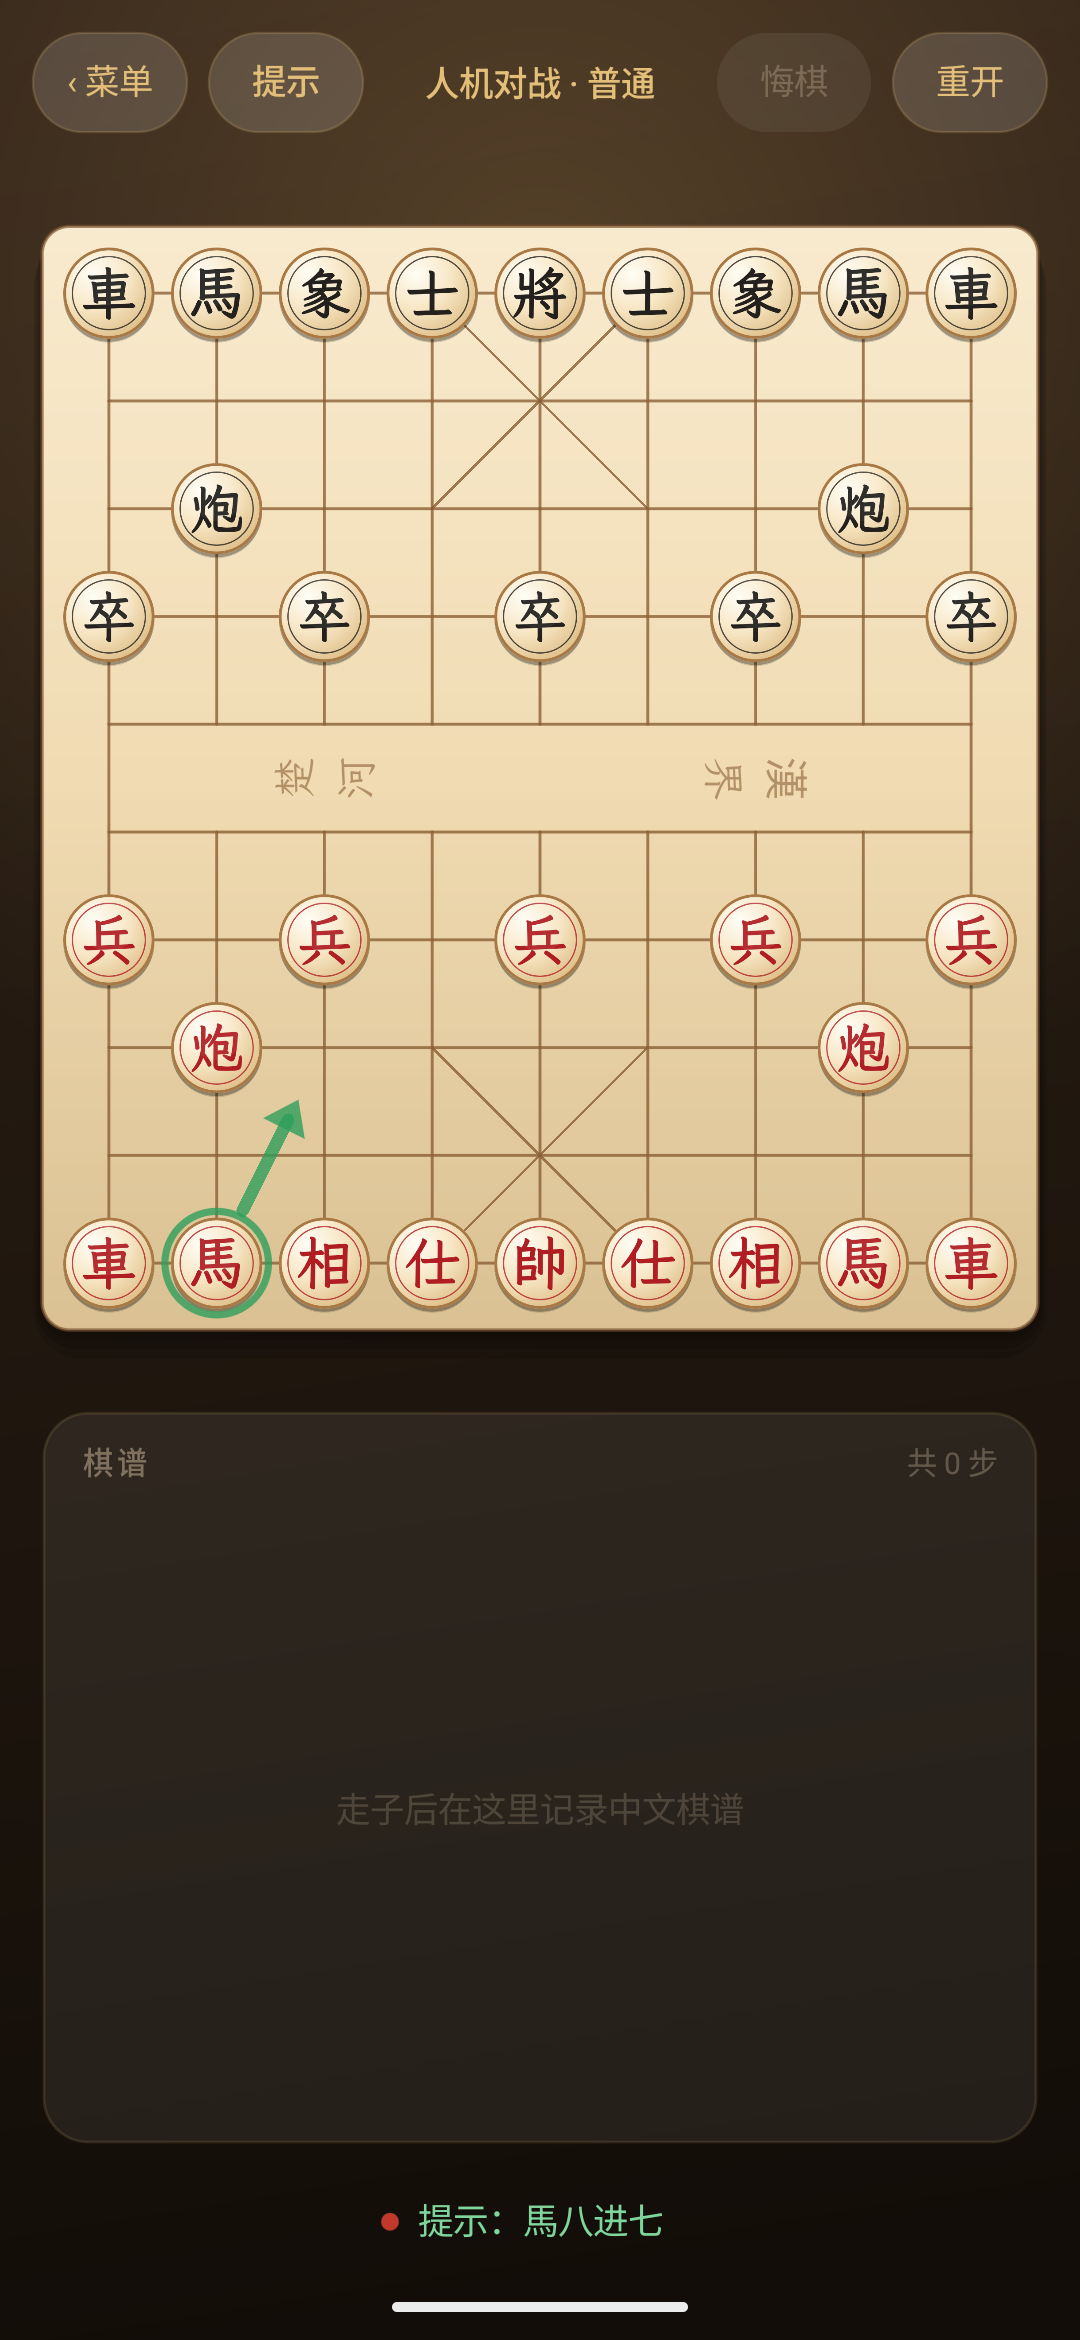
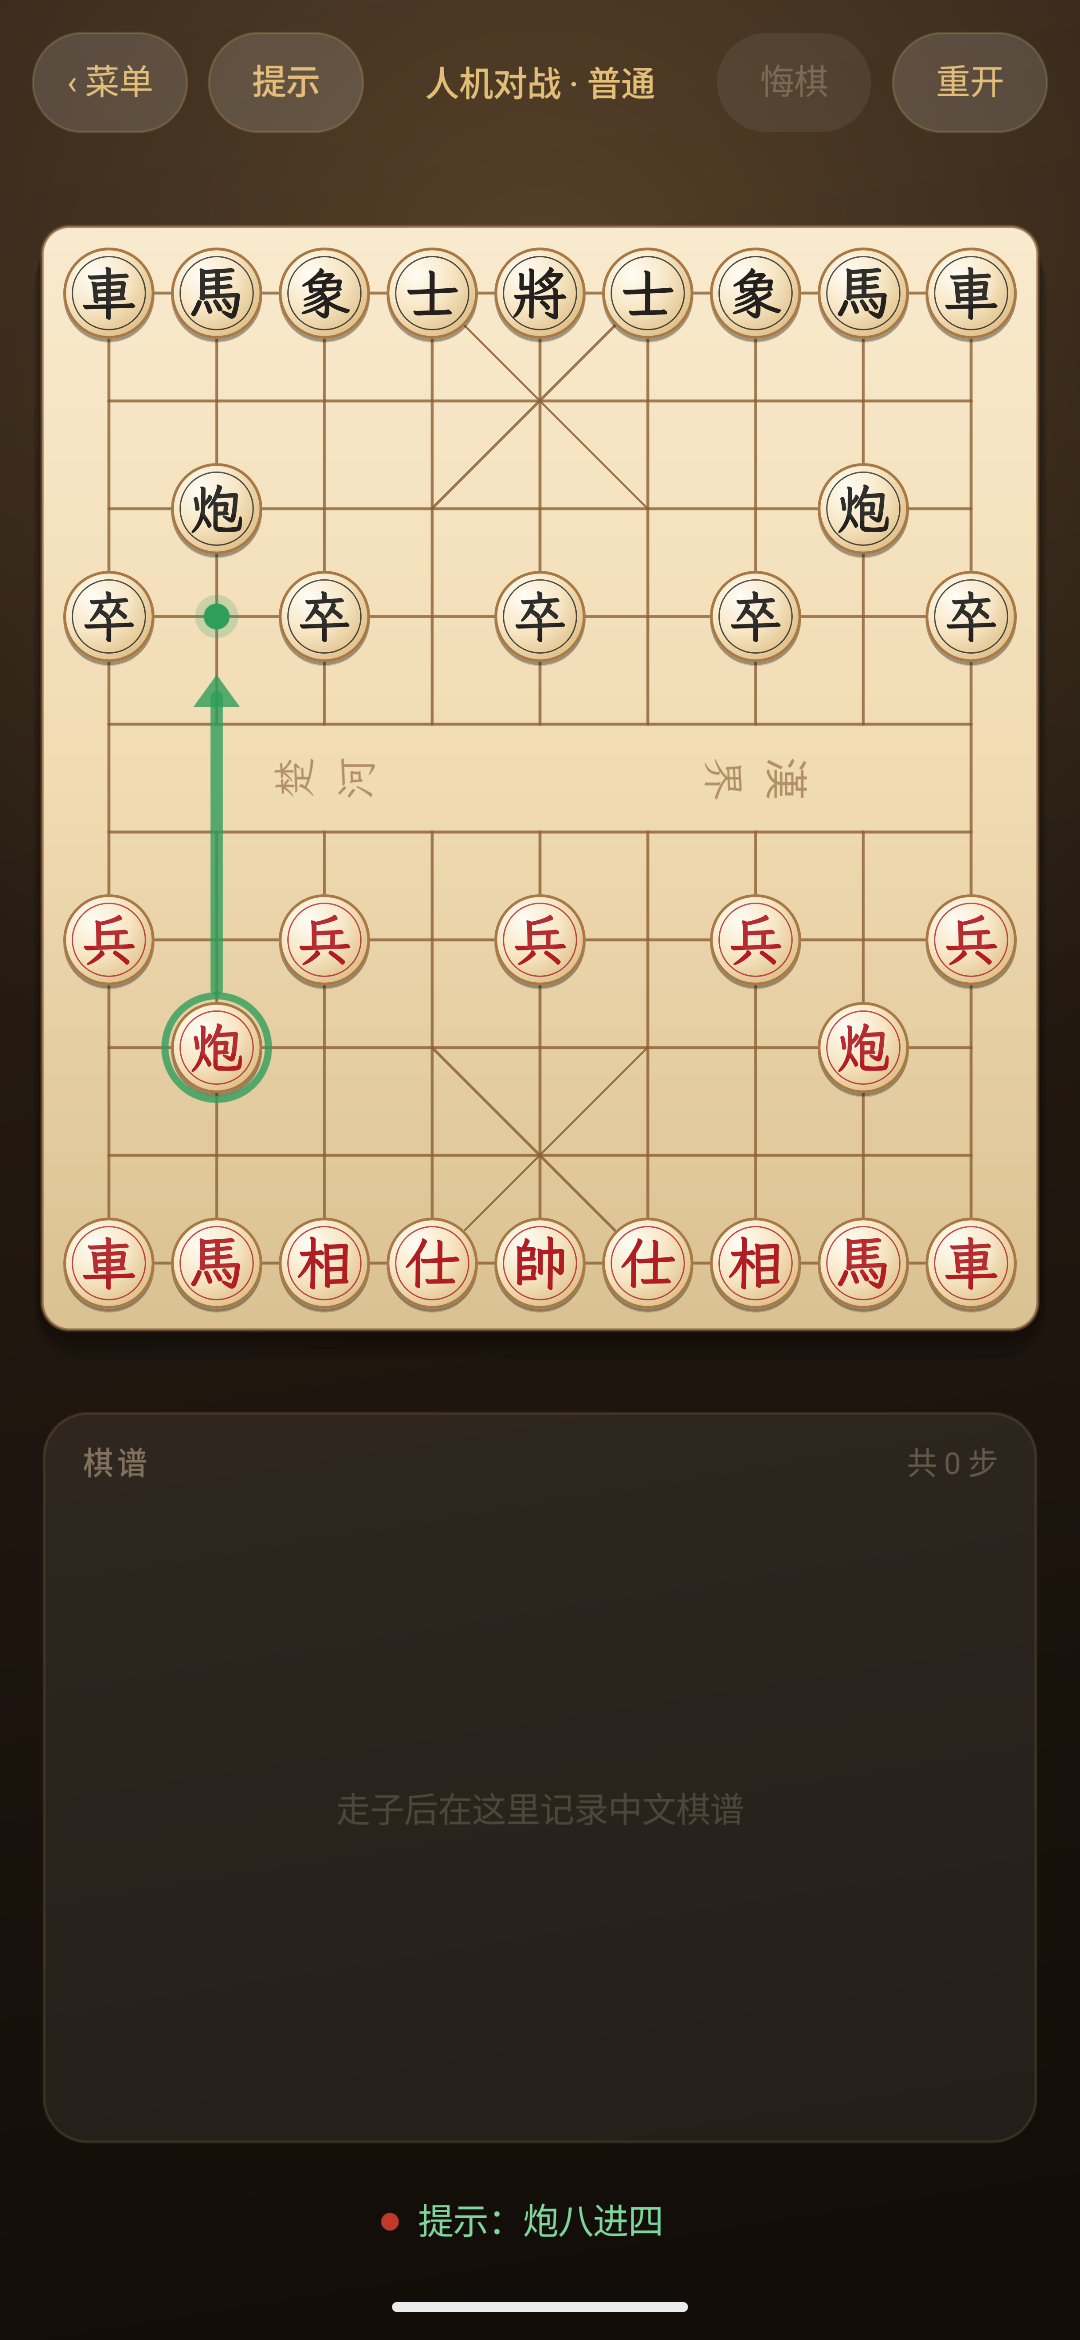
display: 提示改用困难档，补落点绿点和上一步残影
- 提示引擎从固定普通档改成至少困难档（菜单选大师时用大师），普通及以下都按困难算
- 提示落点加绿点；目标格有子时改用绿圈，避免盖住棋子上的字
- 任何一方落子后在起点留一个 25% 透明度的棋子残影，下一步落子时替换，悔棋跟着退
- Game 记录 lastMovedPiece（随 Record 一起存，悔棋可还原）
- 更新 hint 截图，新增 ghost 截图

diff --git a/app/src/main/java/com/klara/xiangqi/ui/GameView.kt b/app/src/main/java/com/klara/xiangqi/ui/GameView.kt
@@ -560,9 +560,11 @@ class GameView(context: Context) : View(context) {
         val gen = generation
         val ply = game.plyCount
         val snapshot = game.board.copy()
+        // 提示至少用「困难」档：低档位带随手棋，会把提示带偏；菜单选大师时就让提示也跑大师。
+        val level = if (difficulty.ordinal >= Difficulty.HARD.ordinal) difficulty else Difficulty.HARD
         invalidate()
         Thread {
-            val move = hintAi.chooseMove(snapshot, Difficulty.NORMAL)
+            val move = hintAi.chooseMove(snapshot, level)
             val name = if (move != 0) MoveNamer.name(snapshot, move) else ""
             post {
                 if (gen != generation) return@post
@@ -1088,6 +1090,14 @@ class GameView(context: Context) : View(context) {
             drawPieceAt(canvas, p, x, y, size)
         }
 
+        // 上一步的残影：在起点留一个淡棋子，下一步落子时自然被替换
+        if (game.lastMove >= 0 && game.lastMovedPiece != 0) {
+            val from = MoveGen.fromOf(game.lastMove)
+            paint.alpha = 64
+            drawPieceAt(canvas, game.lastMovedPiece, cx(colOf(from)), cy(rowOf(from)), size)
+            paint.alpha = 255
+        }
+
         // 走子动画
         if (animating) {
             val t = ((SystemClock.uptimeMillis() - animStartAt) / 190f).coerceIn(0f, 1f)
@@ -1141,6 +1151,19 @@ class GameView(context: Context) : View(context) {
         linePaint.color = C_HINT
         linePaint.strokeWidth = dp(2.6f)
         canvas.drawCircle(fx, fy, cell * 0.48f, linePaint)
+
+        // 落点：空位画实心绿点，可吃子画绿圈——绿点压在棋子上会挡住字
+        if (game.board.cells[to] != 0) {
+            linePaint.color = C_HINT
+            linePaint.strokeWidth = dp(3f)
+            canvas.drawCircle(tx, ty, cell * 0.44f, linePaint)
+        } else {
+            paint.color = C_HINT
+            paint.alpha = 55
+            canvas.drawCircle(tx, ty, cell * 0.20f, paint)
+            paint.alpha = 255
+            canvas.drawCircle(tx, ty, cell * 0.12f, paint)
+        }
 
         val dx = tx - fx
         val dy = ty - fy

diff --git a/app/src/main/java/com/klara/xiangqi/game/Game.kt b/app/src/main/java/com/klara/xiangqi/game/Game.kt
@@ -7,13 +7,17 @@ class Game {
 
     val board = Board()
 
-    private class Record(val move: Int, val captured: Int)
+    private class Record(val move: Int, val piece: Int, val captured: Int)
 
     private val history = ArrayList<Record>(128)
     private val hashes = ArrayList<Long>(128)
     private val notations = ArrayList<String>(128)
 
     var lastMove: Int = -1
+        private set
+
+    /** 上一步被移动的棋子（画「残影」用；0 表示没有） */
+    var lastMovedPiece: Int = 0
         private set
 
     /** true 表示已结束 */
@@ -43,6 +47,7 @@ class Game {
         notations.clear()
         hashes.add(board.hash)
         lastMove = -1
+        lastMovedPiece = 0
         finished = false
         winner = -1
         endReason = 0
@@ -83,11 +88,13 @@ class Game {
 
         // 记谱必须在走子之前根据当前局面生成
         val notation = MoveNamer.name(board, move)
+        val moving = board.cells[from]
         val captured = board.make(move)
-        history.add(Record(move, captured))
+        history.add(Record(move, moving, captured))
         notations.add(notation)
         hashes.add(board.hash)
         lastMove = move
+        lastMovedPiece = moving
         quietPlies = if (captured != 0) 0 else quietPlies + 1
         updateStatus()
         return true
@@ -125,6 +132,7 @@ class Game {
         if (hashes.size > 1) hashes.removeAt(hashes.size - 1)
         if (notations.isNotEmpty()) notations.removeAt(notations.size - 1)
         lastMove = if (history.isEmpty()) -1 else history[history.size - 1].move
+        lastMovedPiece = if (history.isEmpty()) 0 else history[history.size - 1].piece
         finished = false
         winner = -1
         endReason = 0

diff --git a/CHANGELOG.md b/CHANGELOG.md
@@ -5,25 +5,32 @@
 
 版本号写在 `app/build.gradle.kts`（`versionCode` / `versionName`），安装包按版本号归档在 `dist/`。
 
-- **1.4**（versionCode 5，2026-11-02，938 132 B，构建包待验收）：人机对战新增「提示」
+- **1.4**（versionCode 5，2026-11-04，938 520 B，构建包待验收）：人机对战新增「提示」、上一步残影
 - **1.3**（versionCode 4，2026-10-30，937 128 B）：全屏 + 顶部留白封顶 80 px（无孔机型贴顶）；「漢界」字序修正
 - **1.2**（versionCode 3，2026-10-28，937 008 B）：全屏 + 双方吃子；双人棋盘居中 + 棋谱弹层；楚河汉界单字旋转；图标补全
 - **1.1**（versionCode 2，2026-10-28，834 208 B）：楷体 / 返回键修复 / 顶栏悔棋 / 棋子按墨迹归一化
 - **1.0**（versionCode 1，676 030 B）：首版，源码未保留，包从手机备份提取
 
-## [1.4] - 2026-11-02
+## [1.4] - 2026-11-04
 
 ### 新增
 
 - **人机对战「提示」**：顶栏「菜单」右边新增「提示」按钮，点一下让引擎算一步推荐着法，
-  棋盘上画绿色起点圈 + 指向目标格的箭头，底部状态栏同时显示中文着法（如「提示：馬八进七」）。
-  只做标记，不替玩家落子。
-  - 引擎固定用「普通」档（约 0.1～0.9 s），单独一个 `Ai` 实例，不和电脑走子线程共用置换表。
+  棋盘上画绿色起点圈 + 指向目标格的箭头，落点再补一个绿点（可吃子时改用绿圈，免得盖住棋子上的字），
+  底部状态栏同时显示中文着法（如「提示：馬八进七」）。只做标记，不替玩家落子。
+  - 引擎**至少用「困难」档**（约 1.8 s；菜单选大师时提示也跑大师）。原来固定用「普通」，
+    实测跟着走打不过普通电脑——低档位的随手棋会把提示带偏。单独一个 `Ai` 实例，不和电脑走子线程共用置换表。
   - 再点一次「提示」收起；走子 / 悔棋 / 重开 / 回菜单都会自动清掉，过期的计算结果也会丢弃
     （按步数和 `generation` 双重校验），不会把上一局的箭头留在棋盘上。
   - 电脑思考、棋局结束时按钮置灰，点了也不响应。
   - 箭头和起点圈沿用 1.1 的样式（绿色，与金色的上一步高亮区分），颜色收进 `Theme.kt` 的 `C_HINT`。
 - 人机顶栏因此变成「菜单 / 提示 / 标题 / 悔棋 / 重开」，左右两组按钮等宽，标题正好落在屏幕正中。
+
+### 变更
+
+- **上一步残影**：任何一方落子后，被移动的棋子在起点留下一个 25% 透明度的淡棋子，
+  下一次落子时被替换掉（只保留最近一步）。红黑、人机 / 双人都一样，悔棋会跟着退回到再上一步。
+  原来的金色上一步高亮保留，残影叠在起点上，方便回看「这步是从哪走的」。
 
 ## [1.3] - 2026-10-30
 
